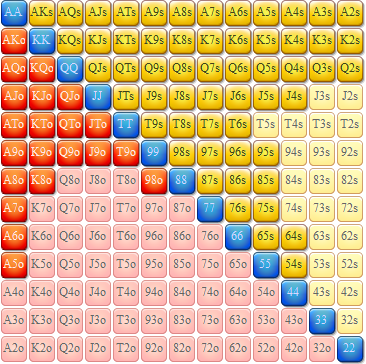
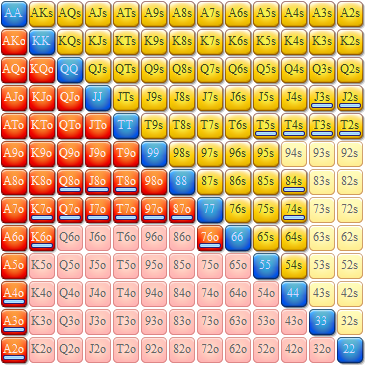
SB steal merged to a single range

diff --git a/js/structure.js b/js/structure.js
@@ -154,8 +154,8 @@ const struct = {
       ['HJ 2,5bb', '19,5%'],
       ['CO 2,5bb', '26,7%'],
       ['BU 2,1bb', '41,8%-51,7% <br> Grey: vs sum of resteals &lt;30%'],
-      ['SB 3bb', '41,8%'],
-      ['SB 2,5bb fe65%+', '56,9%'],
+      ['SB 3bb', '41,8%-56,9% <br> Grey: vs fold to steal &gt;65% 2,5bb'],
+      // ['SB 2,5bb fe65%+', '56,9%'],
     ],
     '3bet IP': [
       ['3bet vs 10%', '4,4%'],
